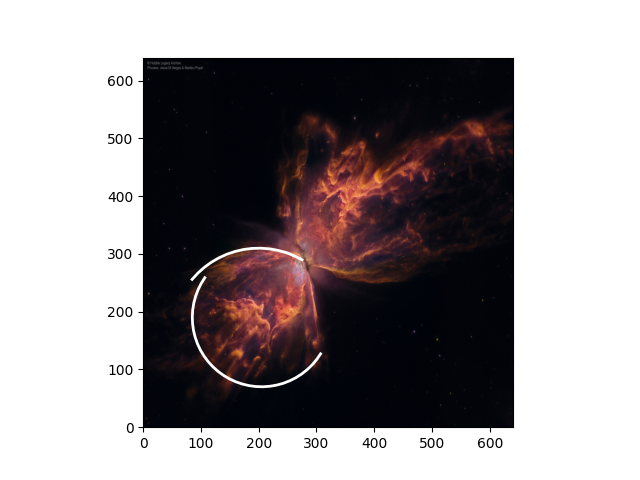
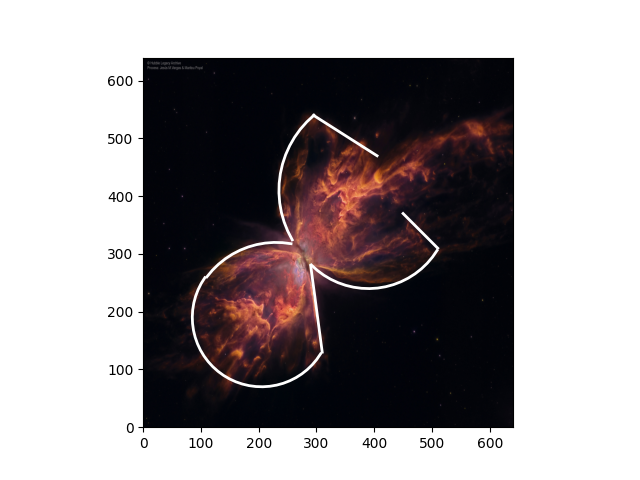
suhx

diff --git a/slide_3_paint_on_image.py b/slide_3_paint_on_image.py
@@ -14,32 +14,35 @@ def circle(R, x0, y0, starst, stop, step):
 
 
 
-#plt.plot([250, 100], [320, 290], lw=2, color='w')
-#plt.savefig('slide_2_paint_image.png')
-
-#plt.plot([250, 280], [320, 520], lw=2, color='w')
-#plt.savefig('slide_2_paint_image.png')
-
 coords = circle(120, 205, 190, 29*np.pi/36, 11*np.pi/6, 0.1)
 plt.plot(coords[0], coords[1], lw=2, color='w')
 plt.savefig('slide_2_paint_image.png')
 
-coords = circle(150, 200, 160, np.pi/3, 29*np.pi/36, 0.1)
+coords = circle(150, 230, 170, 4*np.pi/9, 29*np.pi/36, 0.1)
 plt.plot(coords[0], coords[1], lw=2, color='w')
 plt.savefig('slide_2_paint_image.png')
 
 
-#plt.plot([300, 310], [280, 100], lw=2, color='w')
-#plt.savefig('slide_2_paint_image.png')
+plt.plot([290, 310], [280, 130], lw=2, color='w')
+plt.savefig('slide_2_paint_image.png')
 
-#plt.plot([300, 500], [280, 250], lw=2, color='w')
-#plt.savefig('slide_2_paint_image.png')
 
-#plt.plot([500, 470], [250, 370], lw=2, color='w')
-#plt.savefig('slide_2_paint_image.png')
+coords = circle(140, 390, 380, 5*np.pi/4, 11*np.pi/6, 0.1)
+plt.plot(coords[0], coords[1], lw=2, color='w')
+plt.savefig('slide_2_paint_image.png')
 
-#plt.plot([280, 470], [520, 460], lw=2, color='w')
-#plt.savefig('slide_2_paint_image.png')
+
+coords = circle(170, 405, 410, 13*np.pi/18, 43*np.pi/36, 0.1)
+plt.plot(coords[0], coords[1], lw=2, color='w')
+plt.savefig('slide_2_paint_image.png')
+
+
+
+plt.plot([510, 450], [310, 370], lw=2, color='w')
+plt.savefig('slide_2_paint_image.png')
+
+plt.plot([295, 405], [540, 470], lw=2, color='w')
+plt.savefig('slide_2_paint_image.png')
 
 
 
